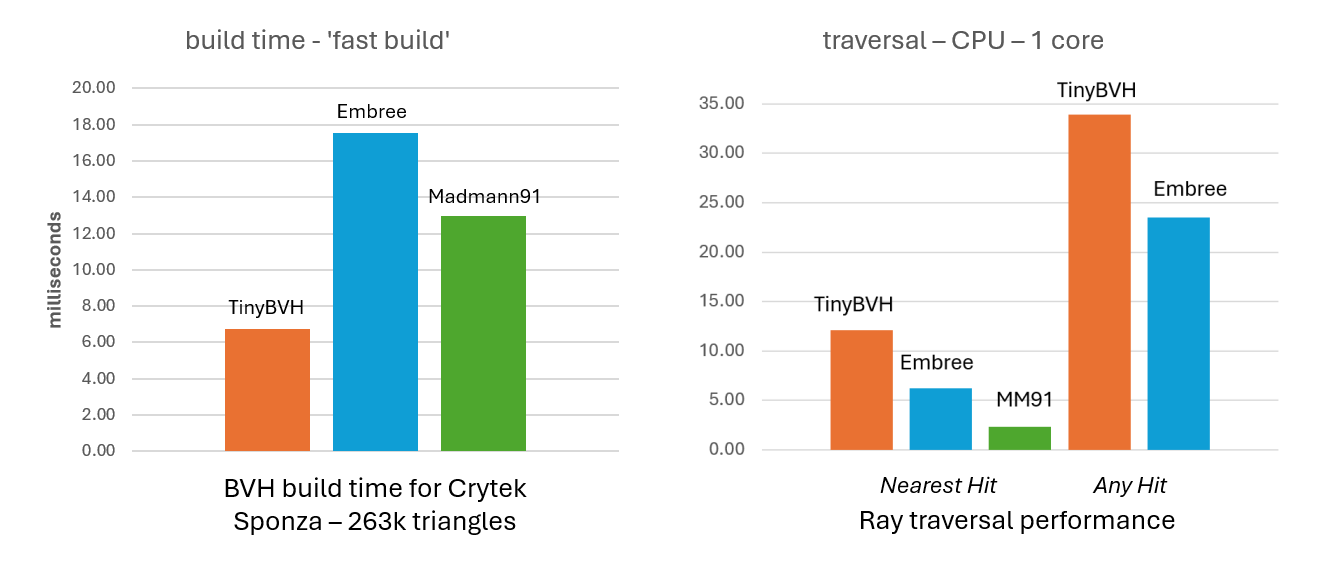
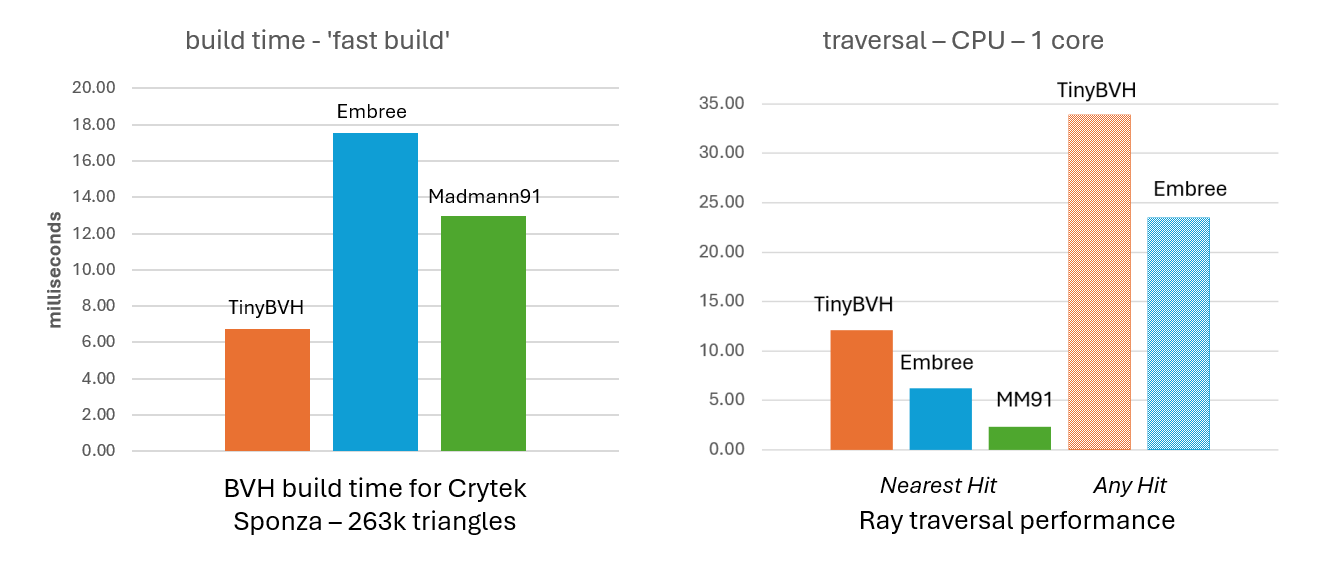
Updated graph and text.

Changed region(s): [[0.8051, 0.1789, 0.929, 0.8053]]

diff --git a/README.md b/README.md
@@ -6,7 +6,7 @@ Single-header BVH construction and traversal library written in C++14 / "Sane C+
 
 TinyBVH is _fast_. Here is, in a nutshell, how it compares to [Intel's Embree](https://www.embree.org) and [Madmann91's BVH library](https://github.com/madmann91/bvh).
 ![Performance](images/perfgraphs.png)
-TinyBVH currently builds a SAH BVH faster than Embree and Maddmann91. It also traces individual primary rays faster than those libraries. Embree outperforms TinyBVH for _any hit_ rays. Note: These results are based on the new ````tiny_bvh_benchmark.cpp```` application and are cautiously presented as 'preliminary'. Note that single-ray traversal is only a small part of Embree. If you suspect an inperfection in the experiment setup, please [let me know](mailto:bikker.j@protonmail.com).
+TinyBVH currently builds a SAH BVH faster than Embree and Maddmann91. It also traces individual primary and 'any hit' rays faster than those libraries. Note: These results are based on the new ````tiny_bvh_benchmark.cpp```` application and are cautiously presented as 'preliminary'. Note that single-ray traversal is only a small part of Embree. If you suspect an inperfection in the experiment setup, please [let me know](mailto:bikker.j@protonmail.com).
 ![Performance](images/cpu_vs_gpu.png)
 When tracing rays on the GPU, (multicore) CPU performance is dwarfed. On an RTX 5080 laptop GPU, TinyBVH traces up to _4 billion rays_ per second in Crytek's Sponza scene using the basic binary BVH format, regardless of graphics API and without using specialized ray tracing hardware. That is 4 rays per pixel at 4k@120Hz, enough for most purposes.
 # TinyOCL
